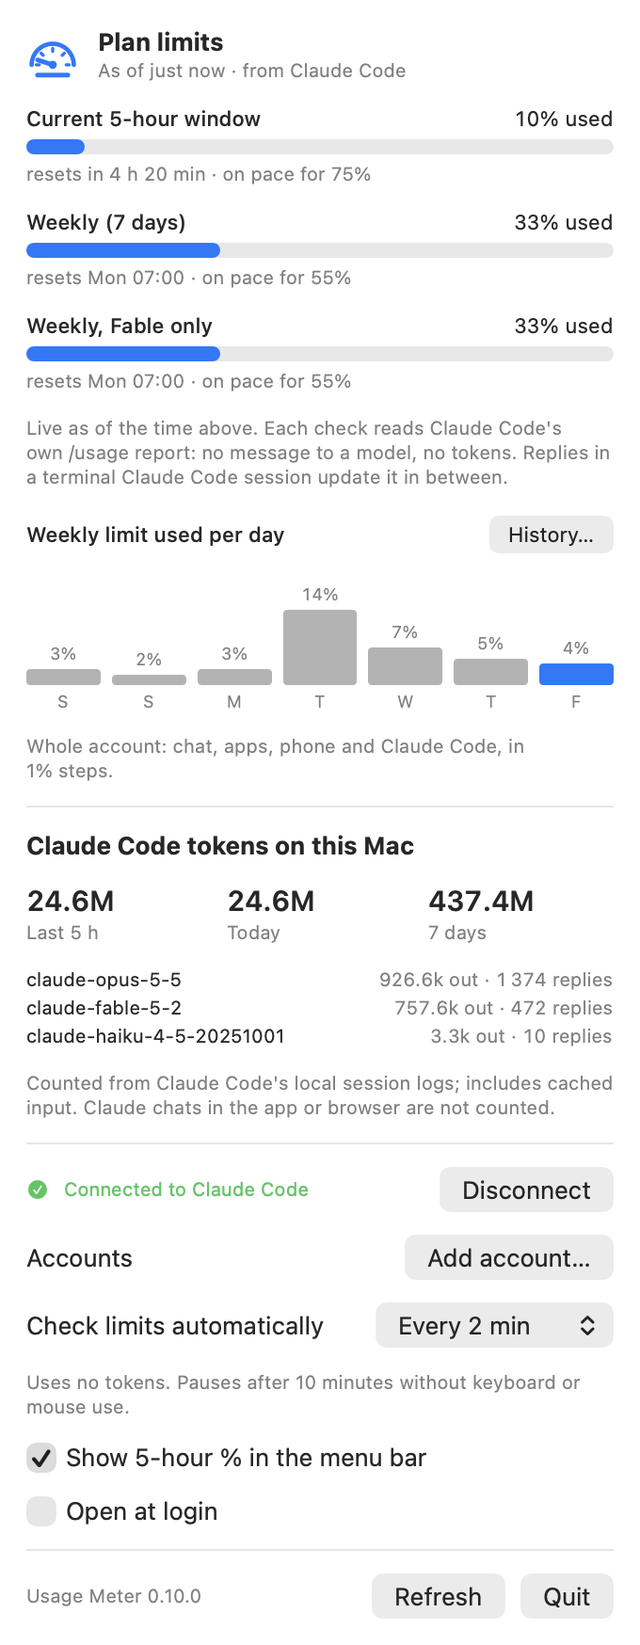
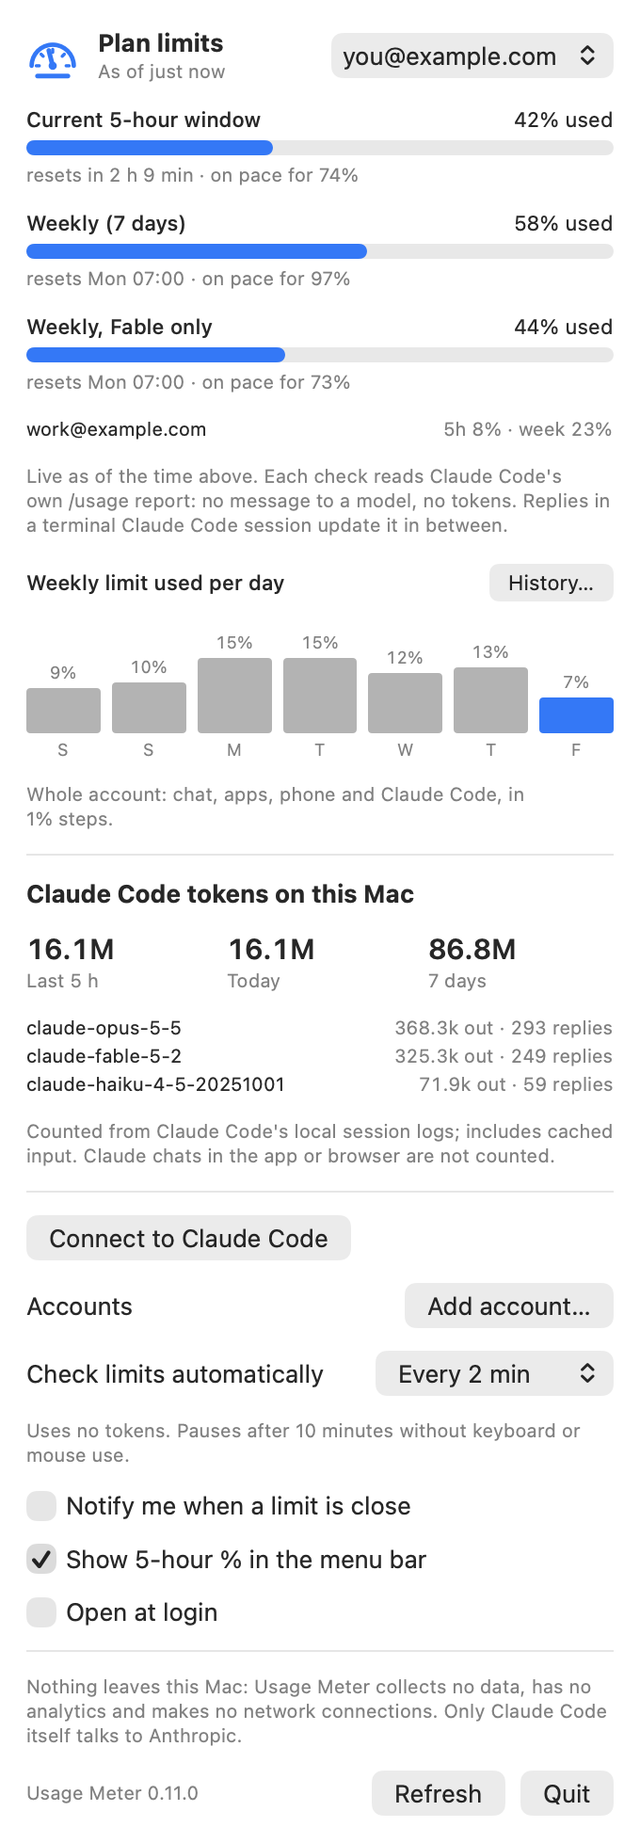
0.11.0: notifications, privacy statement, demo screenshots
- notifications (off by default): a limit passes a chosen level, reaches
  100%, is on pace to run out early, or has reset; once per limit window,
  for every account; rules in App/Alerts.swift with tests
- README: 'Nothing leaves your Mac' section, History screenshot, Planned
  (ChatGPT limits via the Codex CLI); screenshots now use made-up data
- the same statement at the bottom of the panel

Changed region(s): [[0.0309, 0.0, 0.9574, 0.9886], [0.4632, 0.0309, 0.6485, 0.0618]]

diff --git a/tests/main.swift b/tests/main.swift
@@ -199,6 +199,77 @@ check(!FileManager.default.fileExists(atPath: Accounts.dataDir(a2.id).path), "it
 Accounts.remove(Accounts.mainID)
 check(Accounts.load().first?.id == Accounts.mainID, "main account cannot be removed")
 
+
+// 12. Alerts: which notifications a reading calls for. Each fires once per limit window.
+let aNow = at(2026, 11, 19, 19, 0)                       // half-way through the week that resets Mon 23 Nov 07:00
+let aWeek = at(2026, 11, 23, 7, 0).timeIntervalSince1970
+func snap(five: Double? = nil, fiveReset: Date? = nil, week: Double? = nil, fable: Double? = nil, weekReset: Double = aWeek) -> LimitSnapshot {
+    LimitSnapshot(five_hour: five.map { Window(used_percentage: $0, resets_at: (fiveReset ?? at(2026, 11, 19, 22, 0)).timeIntervalSince1970) },
+                  seven_day: week.map { Window(used_percentage: $0, resets_at: weekReset) },
+                  models: fable.map { [ModelWindow(name: "Fable", used_percentage: $0, resets_at: weekReset, as_of: aNow.timeIntervalSince1970)] },
+                  updated_at: aNow.timeIntervalSince1970, as_of: aNow.timeIntervalSince1970)
+}
+var rules = Alerts.Rules(level: 80, pace: false, reset: true)
+var ast = Alerts.State()
+//    Below the level: nothing.
+var ev = Alerts.evaluate(snap(week: 40), account: "main", label: nil, rules: rules, state: &ast, now: aNow)
+check(ev.isEmpty, "nothing below the level, got \(ev.map(\.title))")
+//    Passing the level: one notification, with the reset time; not repeated on the next reading.
+ev = Alerts.evaluate(snap(week: 82), account: "main", label: nil, rules: rules, state: &ast, now: aNow)
+check(ev.count == 1 && ev[0].title == "Weekly limit at 82%", "level alert, got \(ev.map(\.title))")
+check(ev.first?.body.contains("Mon 07:00") == true, "body says when it resets, got \(ev.first?.body ?? "")")
+ev = Alerts.evaluate(snap(week: 85), account: "main", label: nil, rules: rules, state: &ast, now: aNow)
+check(ev.isEmpty, "not repeated in the same window")
+//    Reaching 100 %: its own notification, once.
+ev = Alerts.evaluate(snap(week: 100), account: "main", label: nil, rules: rules, state: &ast, now: aNow)
+check(ev.map(\.title) == ["Weekly limit reached"], "full alert, got \(ev.map(\.title))")
+check(Alerts.evaluate(snap(week: 100), account: "main", label: nil, rules: rules, state: &ast, now: aNow).isEmpty, "full not repeated")
+//    Straight to 100 % from below the level: only "reached", not both.
+var fresh = Alerts.State()
+ev = Alerts.evaluate(snap(five: 100), account: "main", label: nil, rules: rules, state: &fresh, now: aNow)
+check(ev.map(\.title) == ["5-hour limit reached"], "only 'reached' when jumping to 100, got \(ev.map(\.title))")
+//    The window resets (new reset time): "has reset" once, because a warning had been sent; then the level can fire again.
+ev = Alerts.evaluate(snap(week: 3, weekReset: aWeek + 7 * 86400), account: "main", label: nil, rules: rules, state: &ast, now: at(2026, 11, 23, 8, 0))
+check(ev.map(\.title) == ["Weekly limit has reset"], "reset alert, got \(ev.map(\.title))")
+check(Alerts.evaluate(snap(week: 3, weekReset: aWeek + 7 * 86400), account: "main", label: nil, rules: rules, state: &ast, now: at(2026, 11, 23, 8, 5)).isEmpty, "reset not repeated")
+var later = snap(week: 81, weekReset: aWeek + 7 * 86400); later.as_of = at(2026, 11, 27, 7, 59).timeIntervalSince1970
+ev = Alerts.evaluate(later, account: "main", label: nil, rules: rules, state: &ast, now: at(2026, 11, 27, 8, 0))
+check(ev.map(\.title) == ["Weekly limit at 81%"], "level fires again in the new window")
+//    A reset time that passes with no new reading also counts as a reset (the 5-hour window when you stop working).
+ev = Alerts.evaluate(snap(five: 100), account: "main", label: nil, rules: rules, state: &fresh, now: at(2026, 11, 19, 22, 1))
+check(ev.map(\.title) == ["5-hour limit has reset"], "reset by the clock, got \(ev.map(\.title))")
+//    No warning was sent in a window: its reset is not announced. Reset alerts can be turned off.
+var quiet = Alerts.State()
+_ = Alerts.evaluate(snap(week: 20), account: "main", label: nil, rules: rules, state: &quiet, now: aNow)
+check(Alerts.evaluate(snap(week: 1, weekReset: aWeek + 7 * 86400), account: "main", label: nil, rules: rules, state: &quiet, now: at(2026, 11, 23, 8, 0)).isEmpty, "quiet window resets quietly")
+var noReset = Alerts.State()
+_ = Alerts.evaluate(snap(week: 90), account: "main", label: nil, rules: Alerts.Rules(level: 80, pace: false, reset: false), state: &noReset, now: aNow)
+check(Alerts.evaluate(snap(week: 1, weekReset: aWeek + 7 * 86400), account: "main", label: nil, rules: Alerts.Rules(level: 80, pace: false, reset: false), state: &noReset, now: at(2026, 11, 23, 8, 0)).isEmpty, "reset alerts off")
+//    Pace: on pace to run out before the reset (60 % at half-time), once per window; needs 30 % used; off by default here.
+var pst = Alerts.State()
+rules = Alerts.Rules(level: 80, pace: true, reset: true)
+ev = Alerts.evaluate(snap(week: 60), account: "main", label: nil, rules: rules, state: &pst, now: aNow)
+check(ev.map(\.title) == ["Weekly limit on pace to run out"], "pace alert, got \(ev.map(\.title))")
+check(ev.first?.body.contains("Sun 03:00") == true, "pace body names the run-out time, got \(ev.first?.body ?? "")")
+check(Alerts.evaluate(snap(week: 62), account: "main", label: nil, rules: rules, state: &pst, now: aNow).isEmpty, "pace not repeated")
+var p2 = Alerts.State()
+check(Alerts.evaluate(snap(week: 40), account: "main", label: nil, rules: rules, state: &p2, now: aNow).isEmpty, "40 % at half-time is not on pace to run out")
+check(Alerts.evaluate(snap(five: 20, fiveReset: at(2026, 11, 19, 23, 20)), account: "main", label: nil, rules: rules, state: &p2, now: aNow).isEmpty, "under 30 % used: too early for a pace alert")
+//    Model limit and a second account: named in the title; accounts keep separate memory.
+var mst = Alerts.State()
+ev = Alerts.evaluate(snap(week: 50, fable: 90), account: "main", label: nil, rules: Alerts.Rules(level: 80, pace: false, reset: true), state: &mst, now: aNow)
+check(ev.map(\.title) == ["Weekly Fable limit at 90%"], "model alert, got \(ev.map(\.title))")
+ev = Alerts.evaluate(snap(week: 90), account: "abcd", label: "work@example.com", rules: Alerts.Rules(level: 80, pace: false, reset: true), state: &mst, now: aNow)
+check(ev.map(\.title) == ["work@example.com: Weekly limit at 90%"], "account named, got \(ev.map(\.title))")
+//    Out-of-date numbers raise nothing new. Level 0 = off.
+var old = Alerts.State()
+var stale = snap(week: 95); stale.as_of = aNow.timeIntervalSince1970 - 3600
+check(Alerts.evaluate(stale, account: "main", label: nil, rules: rules, state: &old, now: aNow).isEmpty, "stale reading raises nothing")
+check(Alerts.evaluate(snap(week: 95), account: "main", label: nil, rules: Alerts.Rules(level: 0, pace: false, reset: true), state: &old, now: aNow).map(\.title) == [], "level 0 = no level alerts below 100")
+//    The memory survives a restart.
+Alerts.save(ast)
+check(Alerts.load().limits.count == ast.limits.count && !ast.limits.isEmpty, "state saved and loaded")
+
 try? FileManager.default.removeItem(at: home)
 
 print(failed == 0 ? "all tests passed" : "\(failed) failed")

diff --git a/App/UsageMeter.swift b/App/UsageMeter.swift
@@ -31,6 +31,19 @@ final class Model: ObservableObject {
     @Published var showInBar = UserDefaults.standard.object(forKey: "showInBar") as? Bool ?? true {
         didSet { UserDefaults.standard.set(showInBar, forKey: "showInBar") }
     }
+    /// Notifications: off until the user turns them on (macOS then asks for permission once).
+    @Published var notify = UserDefaults.standard.bool(forKey: "notify") {
+        didSet { UserDefaults.standard.set(notify, forKey: "notify") }
+    }
+    @Published var notifyLevel = UserDefaults.standard.object(forKey: "notifyLevel") as? Int ?? 80 {
+        didSet { UserDefaults.standard.set(notifyLevel, forKey: "notifyLevel") }
+    }
+    @Published var notifyPace = UserDefaults.standard.object(forKey: "notifyPace") as? Bool ?? true {
+        didSet { UserDefaults.standard.set(notifyPace, forKey: "notifyPace") }
+    }
+    @Published var notifyReset = UserDefaults.standard.object(forKey: "notifyReset") as? Bool ?? true {
+        didSet { UserDefaults.standard.set(notifyReset, forKey: "notifyReset") }
+    }
     /// The logins shown; the main one first.
     @Published var accounts: [Account] = Accounts.load()
     /// Which account the panel, the menu bar and the History window show.
@@ -80,6 +93,7 @@ final class Model: ObservableObject {
         daily = History.daily(h, activity: usage.activity)
         hook = Limits.hookState()
         if #available(macOS 13.0, *) { launchAtLogin = SMAppService.mainApp.status == .enabled }
+        sendAlerts()
         guard !scanning else { return }
         scanning = true
         let log = self.log, id = selected
@@ -153,6 +167,35 @@ final class Model: ObservableObject {
                 self.refresh()
             }
         }
+    }
+
+    /// Looks at every account's last reading and shows whatever notifications it calls for (each once per window).
+    func sendAlerts() {
+        guard notify else { return }
+        var state = Alerts.load()
+        let rules = Alerts.Rules(level: Double(notifyLevel), pace: notifyPace, reset: notifyReset)
+        var events: [Alerts.Event] = []
+        for a in accounts {
+            events += Alerts.evaluate(Limits.load(in: Accounts.dataDir(a.id)), account: a.id,
+                                      label: accounts.count > 1 ? a.name : nil, rules: rules, state: &state)
+        }
+        Alerts.save(state)
+        events.forEach(Notifier.shared.post)
+    }
+
+    /// Turning notifications on asks macOS for permission; if it says no, the switch goes back off.
+    func setNotify(_ on: Bool) {
+        guard on else { notify = false; return }
+        Notifier.shared.request { ok in
+            self.notify = ok
+            self.message = ok ? "" : "macOS is not allowing notifications from Usage Meter. Allow them in System Settings › Notifications › Usage Meter, then turn this on again."
+            if ok { self.sendAlerts() }
+        }
+    }
+
+    func testNotification() {
+        Notifier.shared.post(Alerts.Event(key: "test", title: "Usage Meter notifications work",
+                                          body: "You will hear from it when a limit passes \(notifyLevel)%."))
     }
 
     /// "Add account": makes the account's folders, then opens Terminal on Claude Code's own sign-in for it.
@@ -311,7 +354,7 @@ struct Panel: View {
                     .renderingMode(.template).foregroundStyle(Color.accentColor)
                 VStack(alignment: .leading, spacing: 1) {
                     Text("Plan limits").font(.headline)
-                    Text(m.limits.map { "As of \(ago($0.asOf)) · from Claude Code" } ?? "No limit data yet")
+                    Text(m.limits.map { "As of \(ago($0.asOf))" + (m.accounts.count > 1 ? "" : " · from Claude Code") } ?? "No limit data yet")
                         .font(.caption).foregroundStyle(m.stale ? Color.orange : Color.secondary)
                 }
                 if m.accounts.count > 1 {
@@ -457,12 +500,30 @@ struct Panel: View {
                  ? "Only when you click Refresh."
                  : "Uses no tokens. Pauses after 10 minutes without keyboard or mouse use\(m.autoPausedForIdle ? " (paused now)" : "").")
                 .font(.caption).foregroundStyle(.secondary).fixedSize(horizontal: false, vertical: true)
+            Toggle("Notify me when a limit is close", isOn: Binding(get: { m.notify }, set: { m.setNotify($0) }))
+            if m.notify {
+                HStack {
+                    Text("Warn at")
+                    Picker("", selection: $m.notifyLevel) {
+                        Text("50%").tag(50); Text("70%").tag(70); Text("80%").tag(80); Text("90%").tag(90)
+                    }.labelsHidden().fixedSize()
+                    Text("and at 100%").foregroundStyle(.secondary)
+                    Spacer()
+                    Button("Test") { m.testNotification() }.controlSize(.small)
+                }
+                Toggle("Also when on pace to run out early", isOn: $m.notifyPace)
+                Toggle("Also when that limit has reset", isOn: $m.notifyReset)
+                Text("For the 5-hour, weekly and model limits of every account. Each notification comes once per limit window.")
+                    .font(.caption).foregroundStyle(.secondary).fixedSize(horizontal: false, vertical: true)
+            }
             Toggle("Show 5-hour % in the menu bar", isOn: $m.showInBar)
             if #available(macOS 13.0, *) {
                 Toggle("Open at login", isOn: Binding(get: { m.launchAtLogin }, set: { m.setLaunchAtLogin($0) }))
             }
 
             Divider()
+            Text("Nothing leaves this Mac: Usage Meter collects no data, has no analytics and makes no network connections. Only Claude Code itself talks to Anthropic.")
+                .font(.caption).foregroundStyle(.secondary).fixedSize(horizontal: false, vertical: true)
             HStack {
                 Text("Usage Meter \(appVersion)").font(.caption).foregroundStyle(.secondary)
                 Spacer()
@@ -526,6 +587,7 @@ final class AppDelegate: NSObject, NSApplicationDelegate {
         item.button?.action = #selector(toggle)
         item.button?.imagePosition = .imageLeading
         watcher = model.objectWillChange.sink { [weak self] in DispatchQueue.main.async { self?.sync() } }
+        Notifier.shared.start()
         model.onHistory = { [weak self] in self?.showHistory() }
         model.start()
         sync()

diff --git a/App/Alerts.swift b/App/Alerts.swift
@@ -1,0 +1,95 @@
+import Foundation
+
+/// Decides which notifications a limit reading calls for. Pure logic: nothing here shows anything.
+/// Every kind of notification fires at most once per limit window.
+enum Alerts {
+    struct Rules: Equatable {
+        var level: Double      // warn when a limit passes this %; 0 = no such warning ("reached" still fires at 100 %)
+        var pace: Bool         // warn when a limit is on pace to run out before it resets
+        var reset: Bool        // say when a limit that had a warning has reset
+    }
+
+    /// What has already been said about one limit's current window.
+    struct Entry: Codable {
+        var r: Double                  // the window's reset time
+        var level = false, full = false, pace = false
+        var warned: Bool { level || full || pace }
+    }
+
+    struct State: Codable { var limits: [String: Entry] = [:] }
+
+    struct Event { var key: String; var title: String; var body: String }
+
+    /// Pace warnings wait until this much is used, so a short burst early in a window does not raise one.
+    static let paceFloor = 30.0
+    /// Numbers older than this raise no new warnings (resets are still announced: they go by the clock).
+    static let staleAfter: TimeInterval = 20 * 60
+
+    static var file: URL { Paths.support.appendingPathComponent("alerts.json") }
+    static func load() -> State {
+        (try? Data(contentsOf: file)).flatMap { try? JSONDecoder().decode(State.self, from: $0) } ?? State()
+    }
+    static func save(_ s: State) {
+        try? FileManager.default.createDirectory(at: Paths.support, withIntermediateDirectories: true)
+        if let d = try? JSONEncoder().encode(s) { try? d.write(to: file, options: .atomic) }
+    }
+
+    /// `account` keys the memory; `label` (an account name) goes in front of the title when there are several accounts.
+    static func evaluate(_ snap: LimitSnapshot?, account: String, label: String?, rules: Rules, state: inout State,
+                         now: Date = Date()) -> [Event] {
+        guard let snap = snap else { return [] }
+        var limits: [(key: String, name: String, window: Window, hours: Double)] = []
+        if let w = snap.five_hour { limits.append(("five", "5-hour limit", w, 5)) }
+        if let w = snap.seven_day { limits.append(("week", "Weekly limit", w, 168)) }
+        for m in snap.models ?? [] { limits.append(("model:\(m.name)", "Weekly \(m.name) limit", m.window, 168)) }
+        let fresh = now.timeIntervalSince(snap.asOf) <= staleAfter
+        let prefix = label.map { "\($0): " } ?? ""
+        var out: [Event] = []
+        for l in limits {
+            let key = "\(account)|\(l.key)", w = l.window
+            // A window we warned about is over: its time has come, or the reading belongs to a later window.
+            if let e = state.limits[key], now.timeIntervalSince1970 >= e.r || w.resets_at - e.r > 3600 {
+                if e.warned, rules.reset {
+                    out.append(Event(key: key + "|reset", title: "\(prefix)\(l.name) has reset", body: "You have the full allowance again."))
+                }
+                state.limits[key] = nil
+            }
+            guard fresh, w.resetDate > now else { continue }
+            var e = state.limits[key] ?? Entry(r: w.resets_at)
+            e.r = w.resets_at
+            let used = w.used_percentage, pct = Int(used.rounded())
+            if used >= 100 {
+                if !e.full {
+                    out.append(Event(key: key + "|full", title: "\(prefix)\(l.name) reached", body: resetText(w.resetDate, now: now)))
+                }
+                e.full = true; e.level = true; e.pace = true
+            } else {
+                if rules.level > 0, used >= rules.level, !e.level {
+                    out.append(Event(key: key + "|level", title: "\(prefix)\(l.name) at \(pct)%", body: resetText(w.resetDate, now: now)))
+                    e.level = true
+                }
+                if rules.pace, !e.pace, used >= paceFloor,
+                   let full = Pace.project(used: used, resetsAt: w.resets_at, window: l.hours * 3600, now: now)?.runsOut {
+                    out.append(Event(key: key + "|pace", title: "\(prefix)\(l.name) on pace to run out",
+                                     body: "At \(pct)% now; full by \(clock(full, now: now)) at this pace. \(resetText(w.resetDate, now: now))"))
+                    e.pace = true
+                }
+            }
+            if e.warned || state.limits[key] != nil { state.limits[key] = e }
+        }
+        return out
+    }
+
+    static func clock(_ d: Date, now: Date) -> String {
+        let f = DateFormatter()
+        f.dateFormat = Calendar.current.isDate(d, inSameDayAs: now) ? "HH:mm" : "EEE HH:mm"
+        return f.string(from: d)
+    }
+
+    static func resetText(_ d: Date, now: Date) -> String {
+        let s = Int(d.timeIntervalSince(now))
+        if s < 3600 { return "Resets in \(max(1, s / 60)) min." }
+        if s < 86400 { return "Resets in \(s / 3600) h \((s % 3600) / 60) min." }
+        return "Resets \(clock(d, now: now))."
+    }
+}

diff --git a/App/Notifier.swift b/App/Notifier.swift
@@ -1,0 +1,29 @@
+import Foundation
+import UserNotifications
+
+/// Shows the notifications `Alerts` decides on, through macOS's own notification centre (local only).
+final class Notifier: NSObject, UNUserNotificationCenterDelegate {
+    static let shared = Notifier()
+    private var center: UNUserNotificationCenter { UNUserNotificationCenter.current() }
+
+    func start() { center.delegate = self }
+
+    /// Asks macOS for permission (it shows its own question the first time). `done` gets the answer on the main thread.
+    func request(_ done: @escaping (Bool) -> Void) {
+        center.requestAuthorization(options: [.alert, .sound]) { ok, _ in DispatchQueue.main.async { done(ok) } }
+    }
+
+    func post(_ e: Alerts.Event) {
+        let c = UNMutableNotificationContent()
+        c.title = e.title
+        c.body = e.body
+        c.sound = .default
+        center.add(UNNotificationRequest(identifier: "\(e.key)|\(Date().timeIntervalSince1970)", content: c, trigger: nil))
+    }
+
+    /// Show it even while the app's own panel is in front.
+    func userNotificationCenter(_ center: UNUserNotificationCenter, willPresent notification: UNNotification,
+                                withCompletionHandler done: @escaping (UNNotificationPresentationOptions) -> Void) {
+        done([.banner, .sound])
+    }
+}

diff --git a/App/UsageLog.swift b/App/UsageLog.swift
@@ -41,7 +41,7 @@ final class UsageLog {
     let root: URL
     private var cache: [String: (mtime: Date, replies: [String: Reply])] = [:]
 
-    init(root: URL = FileManager.default.homeDirectoryForCurrentUser.appendingPathComponent(".claude/projects")) {
+    init(root: URL = Paths.home.appendingPathComponent(".claude/projects")) {
         self.root = root
     }
 

diff --git a/README.md b/README.md
@@ -6,6 +6,17 @@
 
 It uses only what Claude Code itself provides on your Mac: no claude.ai cookies, no private web endpoints, no API calls of its own.
 
+## Nothing leaves your Mac
+
+- **No data is collected.** There is no analytics, no telemetry, no crash reporting, no update check and no sync.
+- **The app makes no network connections at all.** It contains no networking code; you can check with `grep -rn "URLSession\|URLRequest" App/` (no matches).
+- **It never holds a login.** It does not read Claude Code's saved token or any browser cookie. It runs the `claude` command and reads what that prints.
+- **The only thing that talks to the internet is Claude Code itself**, which asks Anthropic for your own usage figures, exactly as when you type `/usage` in it.
+- Everything the app keeps (readings, history, settings) stays in `~/Library/Application Support/Usage Meter` on this Mac. Delete that folder and it is gone.
+- Notifications are local macOS notifications; nothing is sent to a server to deliver them.
+
+The screenshots here use made-up data.
+
 ## What it shows
 
 | Section | Source | Notes |
@@ -15,11 +26,14 @@ It uses only what Claude Code itself provides on your Mac: no claude.ai cookies,
 | **Weekly limit used per day** (7-day chart, whole account) | Each limit reading is saved to `~/Library/Application Support/Usage Meter/history.json`; a day's bar is how much the weekly % rose that day | 1% steps. Days of the current week before the first reading are estimated (≈): the week's % at that point, split by Claude Code activity on this Mac (API price ratios). Earlier weeks show –. Use while the Mac is off lands on the next day it checks. |
 | **Pace** (under each limit, and in History) | The window's average rate so far, carried to the reset: "on pace for 55%" or "full by Sat 14:20 at this pace" | No figure in the first tenth of a window or when the numbers are out of date. |
 | **History…** window: the limits over time (24 hours / 7 days / 30 days), an hour-of-day grid for the last 14 days with a few plain facts, Claude Code use per project folder, and the "What's contributing" part of Claude Code's `/usage` report | The saved readings (`history.json`, 60 days; 5-hour and model figures since 0.9.0), the session logs, and `contributing.txt` saved at each check | Everything stays on this Mac. Project shares are a rough cost weight from the logs, not the plan %. |
+| **Notifications** (off until you turn them on) | The same readings | When a limit passes a level you pick (50, 70, 80 or 90%) and at 100%; optionally when it is on pace to run out before the reset (from 30% used), and when a limit you were warned about has reset. For the 5-hour, weekly and model limits of every account, each once per limit window. |
 | **Claude Code tokens**: last 5 h, today, 7 days, per model | Claude Code's session logs in `~/.claude/projects` | Includes cached input, so totals are large. Anthropic calls the log format internal, so this part can break after a Claude Code update. |
 
 The gauge needle in the menu bar follows the 5-hour figure, with the % beside it while it is fresh.
 
 How it compares with other Claude usage meters (open source and paid): [docs/COMPARISON.md](docs/COMPARISON.md).
+
+<img src="docs/history.png" width="420" alt="History window: limits over time, pace, hour grid, projects">
 
 ## Install
 
@@ -57,6 +71,12 @@ This is for accounts that are yours, for example a personal and a work plan. Che
 - The app reads that file and the session logs every 30 seconds (only changed log files are re-read).
 
 Other options: `--fetch-limits` (the Refresh check from Terminal, all accounts), `--background` (start without opening the panel), `--screenshot out.png [dark]`, `--screenshot-history out.png [dark]`, `--set-hook on|off`, `--version`; `UM_HOME=<dir>` redirects the settings and snapshot paths for testing.
+
+## Planned
+
+- **ChatGPT plan limits**, next to the Claude ones, if the Codex CLI can report them the same way (the official tool asked on your own Mac, with no login held by this app). Not started; it will not be added through cookies or private endpoints.
+- Desktop widgets.
+- Extra-usage and credit figures, where Claude Code reports them.
 
 ## Limits of this approach
 

diff --git a/docs/COMPARISON.md b/docs/COMPARISON.md
@@ -12,7 +12,7 @@ Read from each tool's own README, docs or store page on 20 November 2026. These 
 
 | Tool | Platform | Price / licence | Limits from | Per-model weekly | Several accounts | History | Pace | Alerts | Project stats | Leaves the machine (besides Anthropic) |
 |---|---|---|---|---|---|---|---|---|---|---|
-| **Usage Meter** (this) | macOS menu bar | Free, MIT | CLI (`/usage`, 0 tokens) + status line | Yes | Yes: Add account, own Claude Code login | Chart 24 h / 7 d / 30 d, hour grid, 60 days kept | Yes | No | Yes | Nothing |
+| **Usage Meter** (this) | macOS menu bar | Free, MIT | CLI (`/usage`, 0 tokens) + status line | Yes | Yes: Add account, own Claude Code login | Chart 24 h / 7 d / 30 d, hour grid, 60 days kept | Yes | Yes: level, 100%, pace, reset | Yes | Nothing |
 | [Claude-Usage-Tracker](https://github.com/hamed-elfayome/Claude-Usage-Tracker) | macOS bar, widgets, status line | Free, MIT | token, cookie | Yes | Yes: profiles | Yes | Yes | Yes | n/s | Daily anonymous ping |
 | [ClaudeBar](https://github.com/tddworks/ClaudeBar) | macOS bar, notch, Touch Bar | Free, Apache-2.0 | CLI, token fallback | Yes | Yes: browser or config folder | 30-day cost chart | Yes | Yes, webhooks | Daily cost; project n/s | Opt-in leaderboard, webhooks |
 | [CodexBar](https://github.com/steipete/CodexBar) | macOS bar, Linux, CLI | Free, MIT | token, CLI, cookie | Sonnet stated | Yes | Yes | Even-use guide | Session only | Yes | n/s |
@@ -38,8 +38,7 @@ Read from each tool's own README, docs or store page on 20 November 2026. These 
 
 ## What it does not have (yet)
 
-- Notifications when a limit is close or has reset
 - Desktop widgets, iPhone or Watch views
 - Extra-usage, credit or API billing figures
-- Other providers (Codex and so on), Windows or Linux
+- Other providers (ChatGPT / Codex is planned), Windows or Linux
 - A way to work without Claude Code installed
